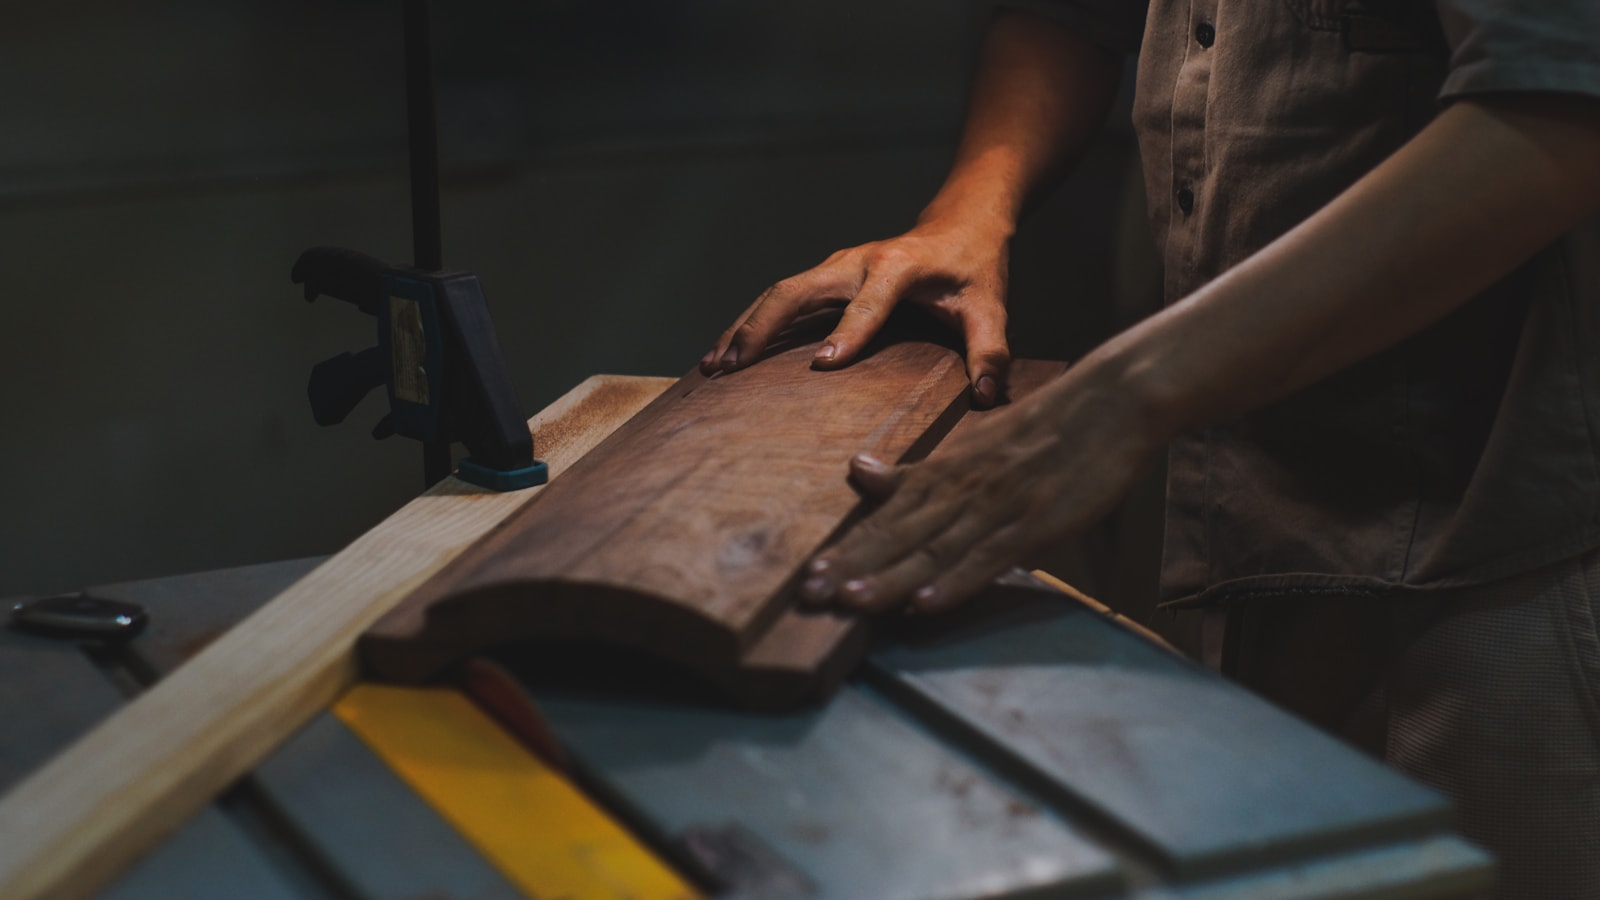
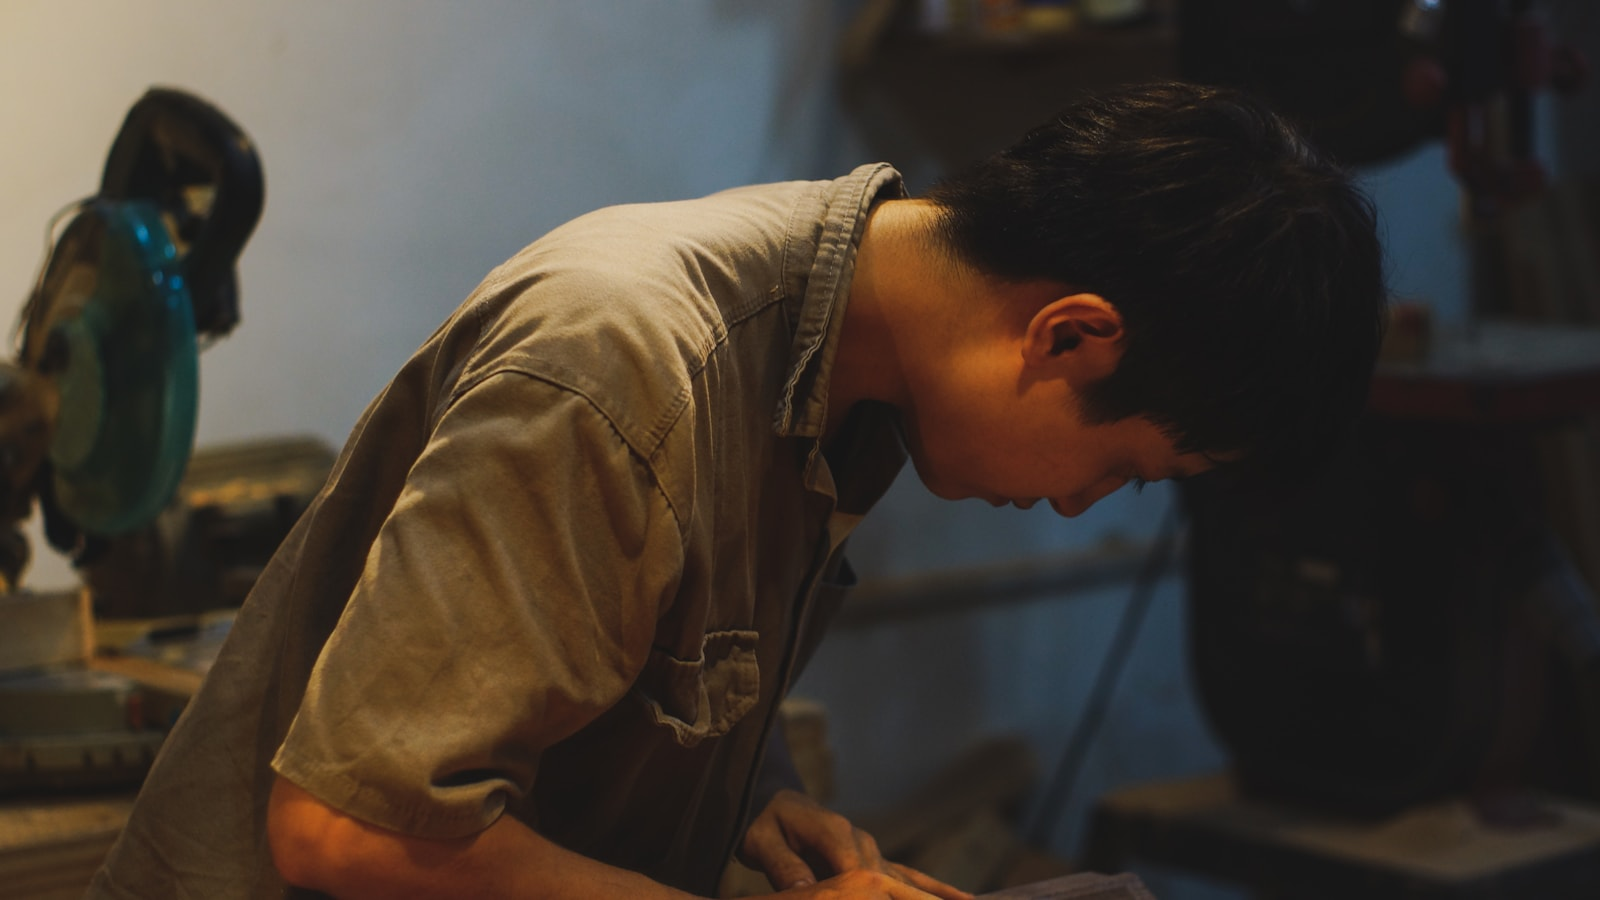
Take the two blocking items, and guard the script that destroyed the content
Both reviewers named the same two blockers and gave the remedy; I had called
them unfixable without new assets, which was wrong.

The third work card was a generated object that cannot be built — ribbons that
merge and split along their length, no seat surface, a base plane with no
junction to anything above it — on the one band meant to prove craft. It is
gone and the row is a two-up of real pieces, which is what the critique said to
do: two real beat three with a hallucination, and Grid already handled two
columns. Its media and file are deleted rather than shipped unreferenced.

A site headlined "Six people" showed only hands. The studio figure is now a
maker at the bench, face and body, from the same photographer's series as the
hero.

Then the tooling, all of which exists because of failures in this session:

- regenerate-content.sh wipes content/ and re-exports. Run against a site that
  has not had the recipe applied, it exports nothing over the top. That is what
  happened: 42 files emptied in one command, recovered from git. It refuses now
  when the site has fewer than four Canvas pages, and says what to do instead.
  A reviewer had flagged the script as unguarded and I had noted it without
  acting.
- It also prunes file entities whose bytes this recipe does not ship, which I
  had been deleting by hand and watching the next export restore.
- The assertion for those entities is a file with a docstring now, after a sed
[…]

diff --git a/tests/lib/orphan-files.py b/tests/lib/orphan-files.py
@@ -1,0 +1,23 @@
+"""Counts file entities in a recipe's content/file whose bytes are missing.
+
+Shipped without its binary, a file entity makes the importer log a warning and
+leave a managed row pointing at nothing. Nothing else in the suite can see it,
+because no media references it and the media count is unaffected.
+
+Kept as a file rather than inline in check.sh: the first two attempts were a
+sed expression that matched nothing and a heredoc that silently swallowed the
+twenty assertions after it.
+"""
+
+import pathlib
+import re
+import sys
+
+directory = pathlib.Path(sys.argv[1])
+binaries = {p.name for p in directory.iterdir() if p.suffix != '.yml'}
+missing = 0
+for entity in sorted(directory.glob('*.yml')):
+    match = re.search(r"value: '?public://([^'\n]+)'?", entity.read_text())
+    if not match or match.group(1) not in binaries:
+        missing += 1
+print(missing)
